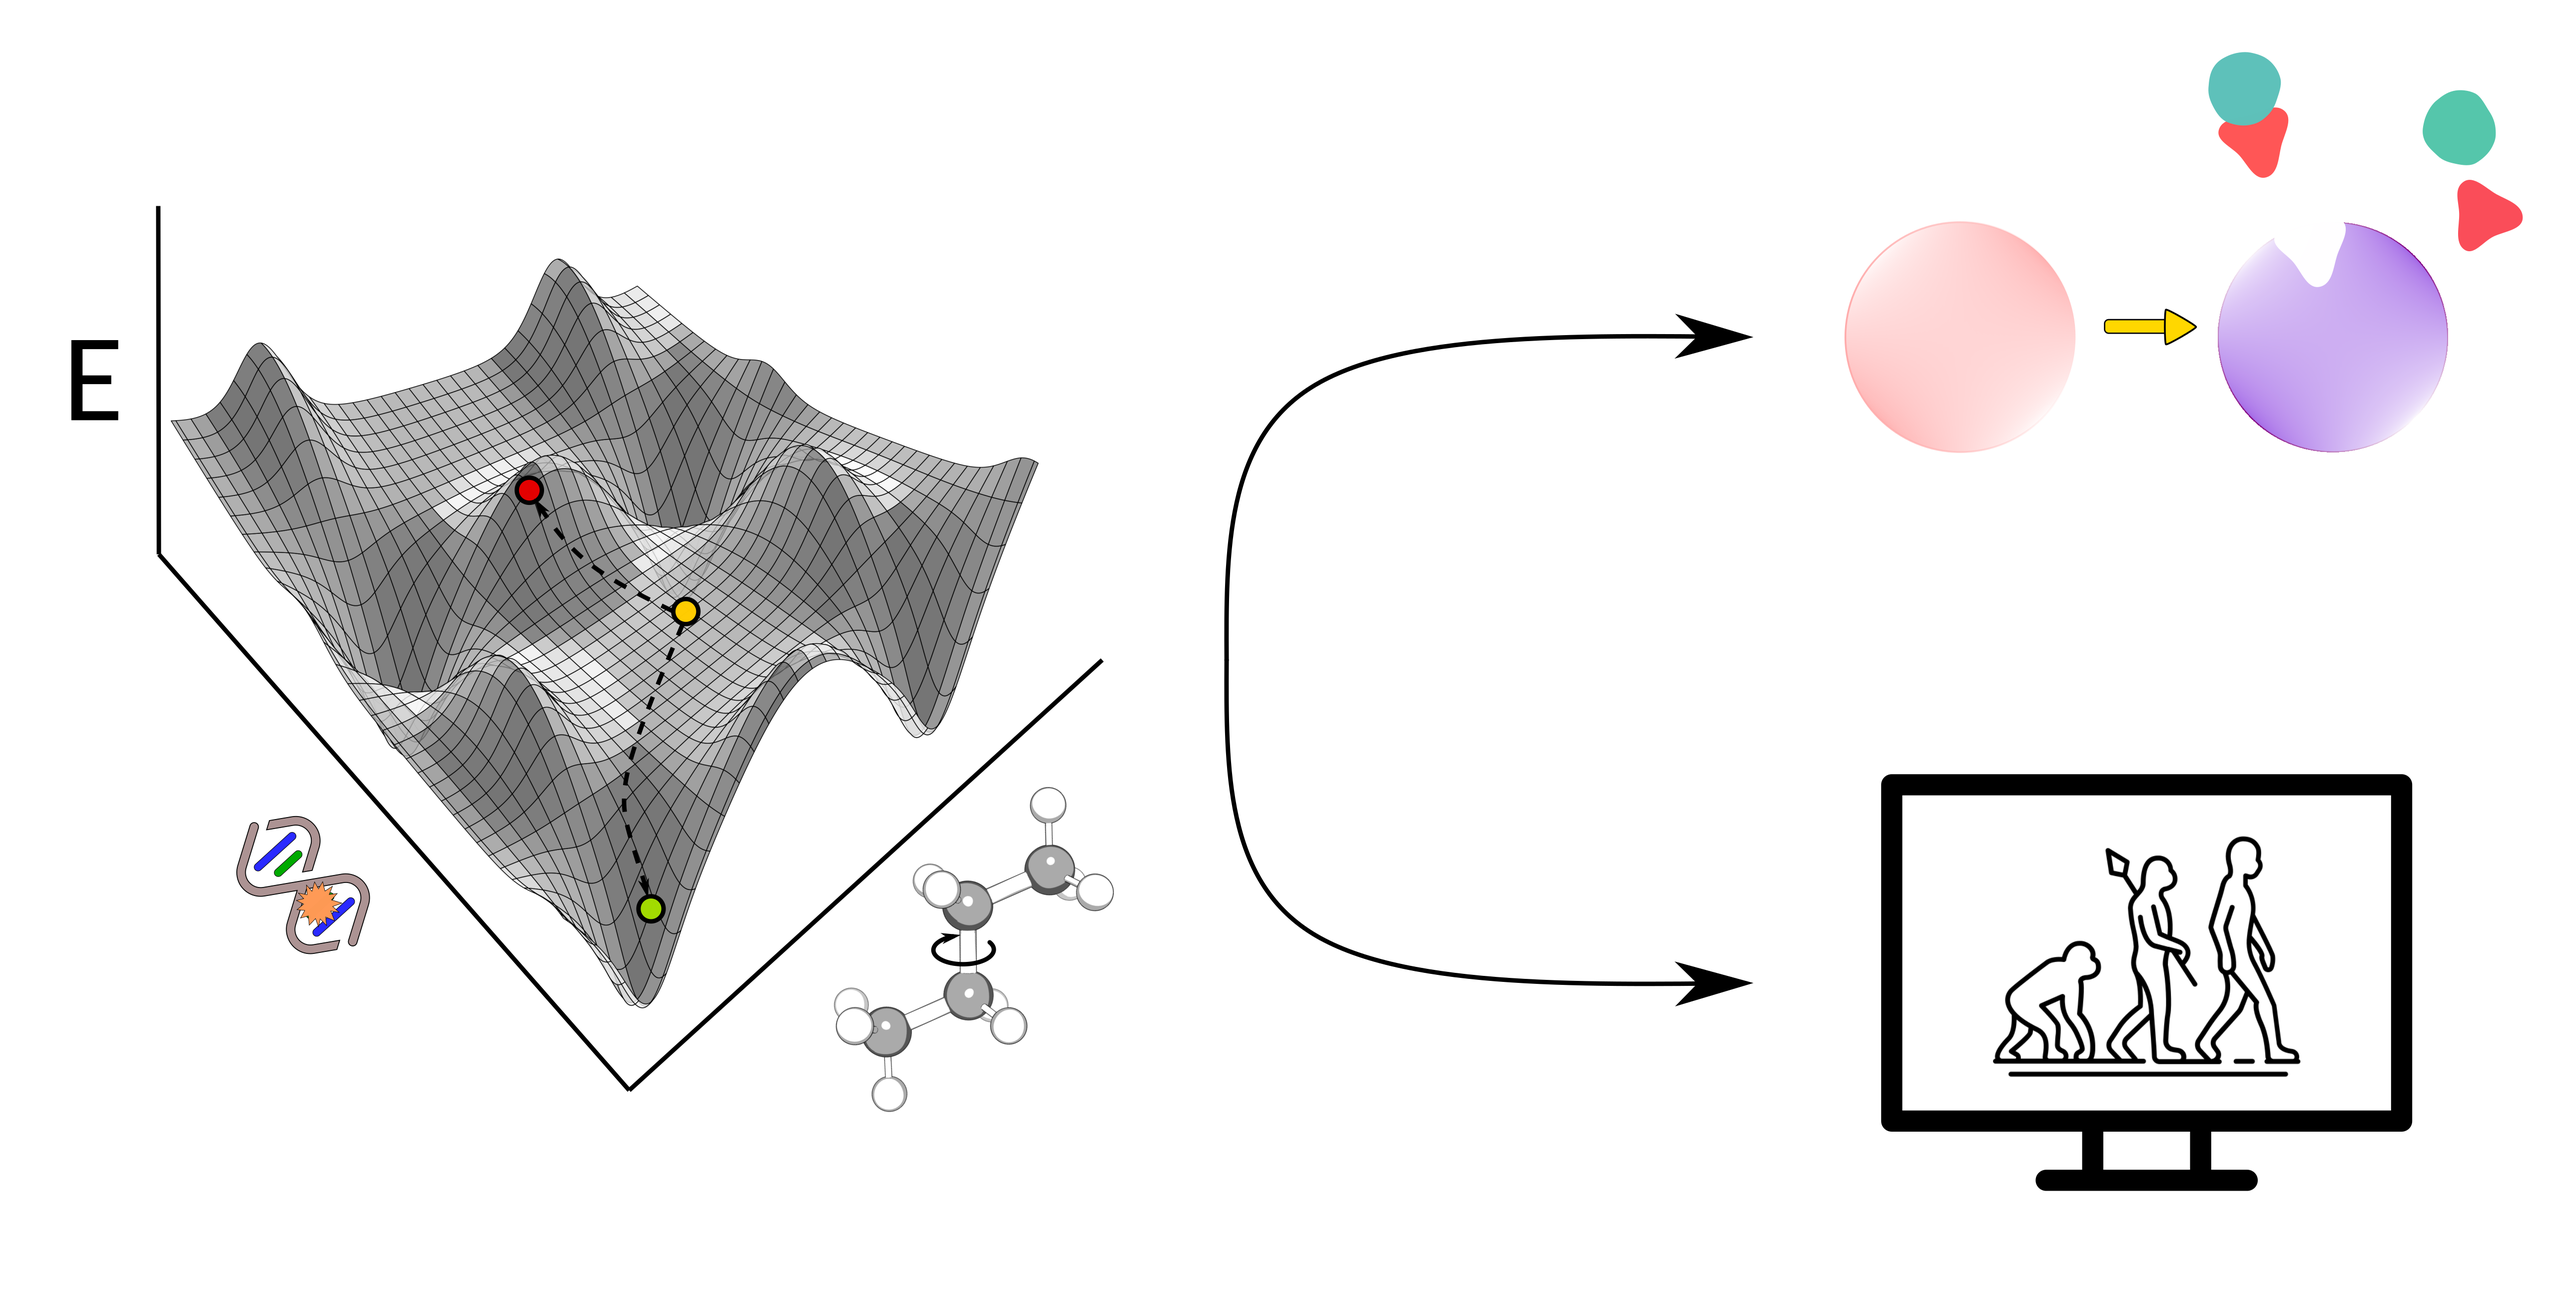
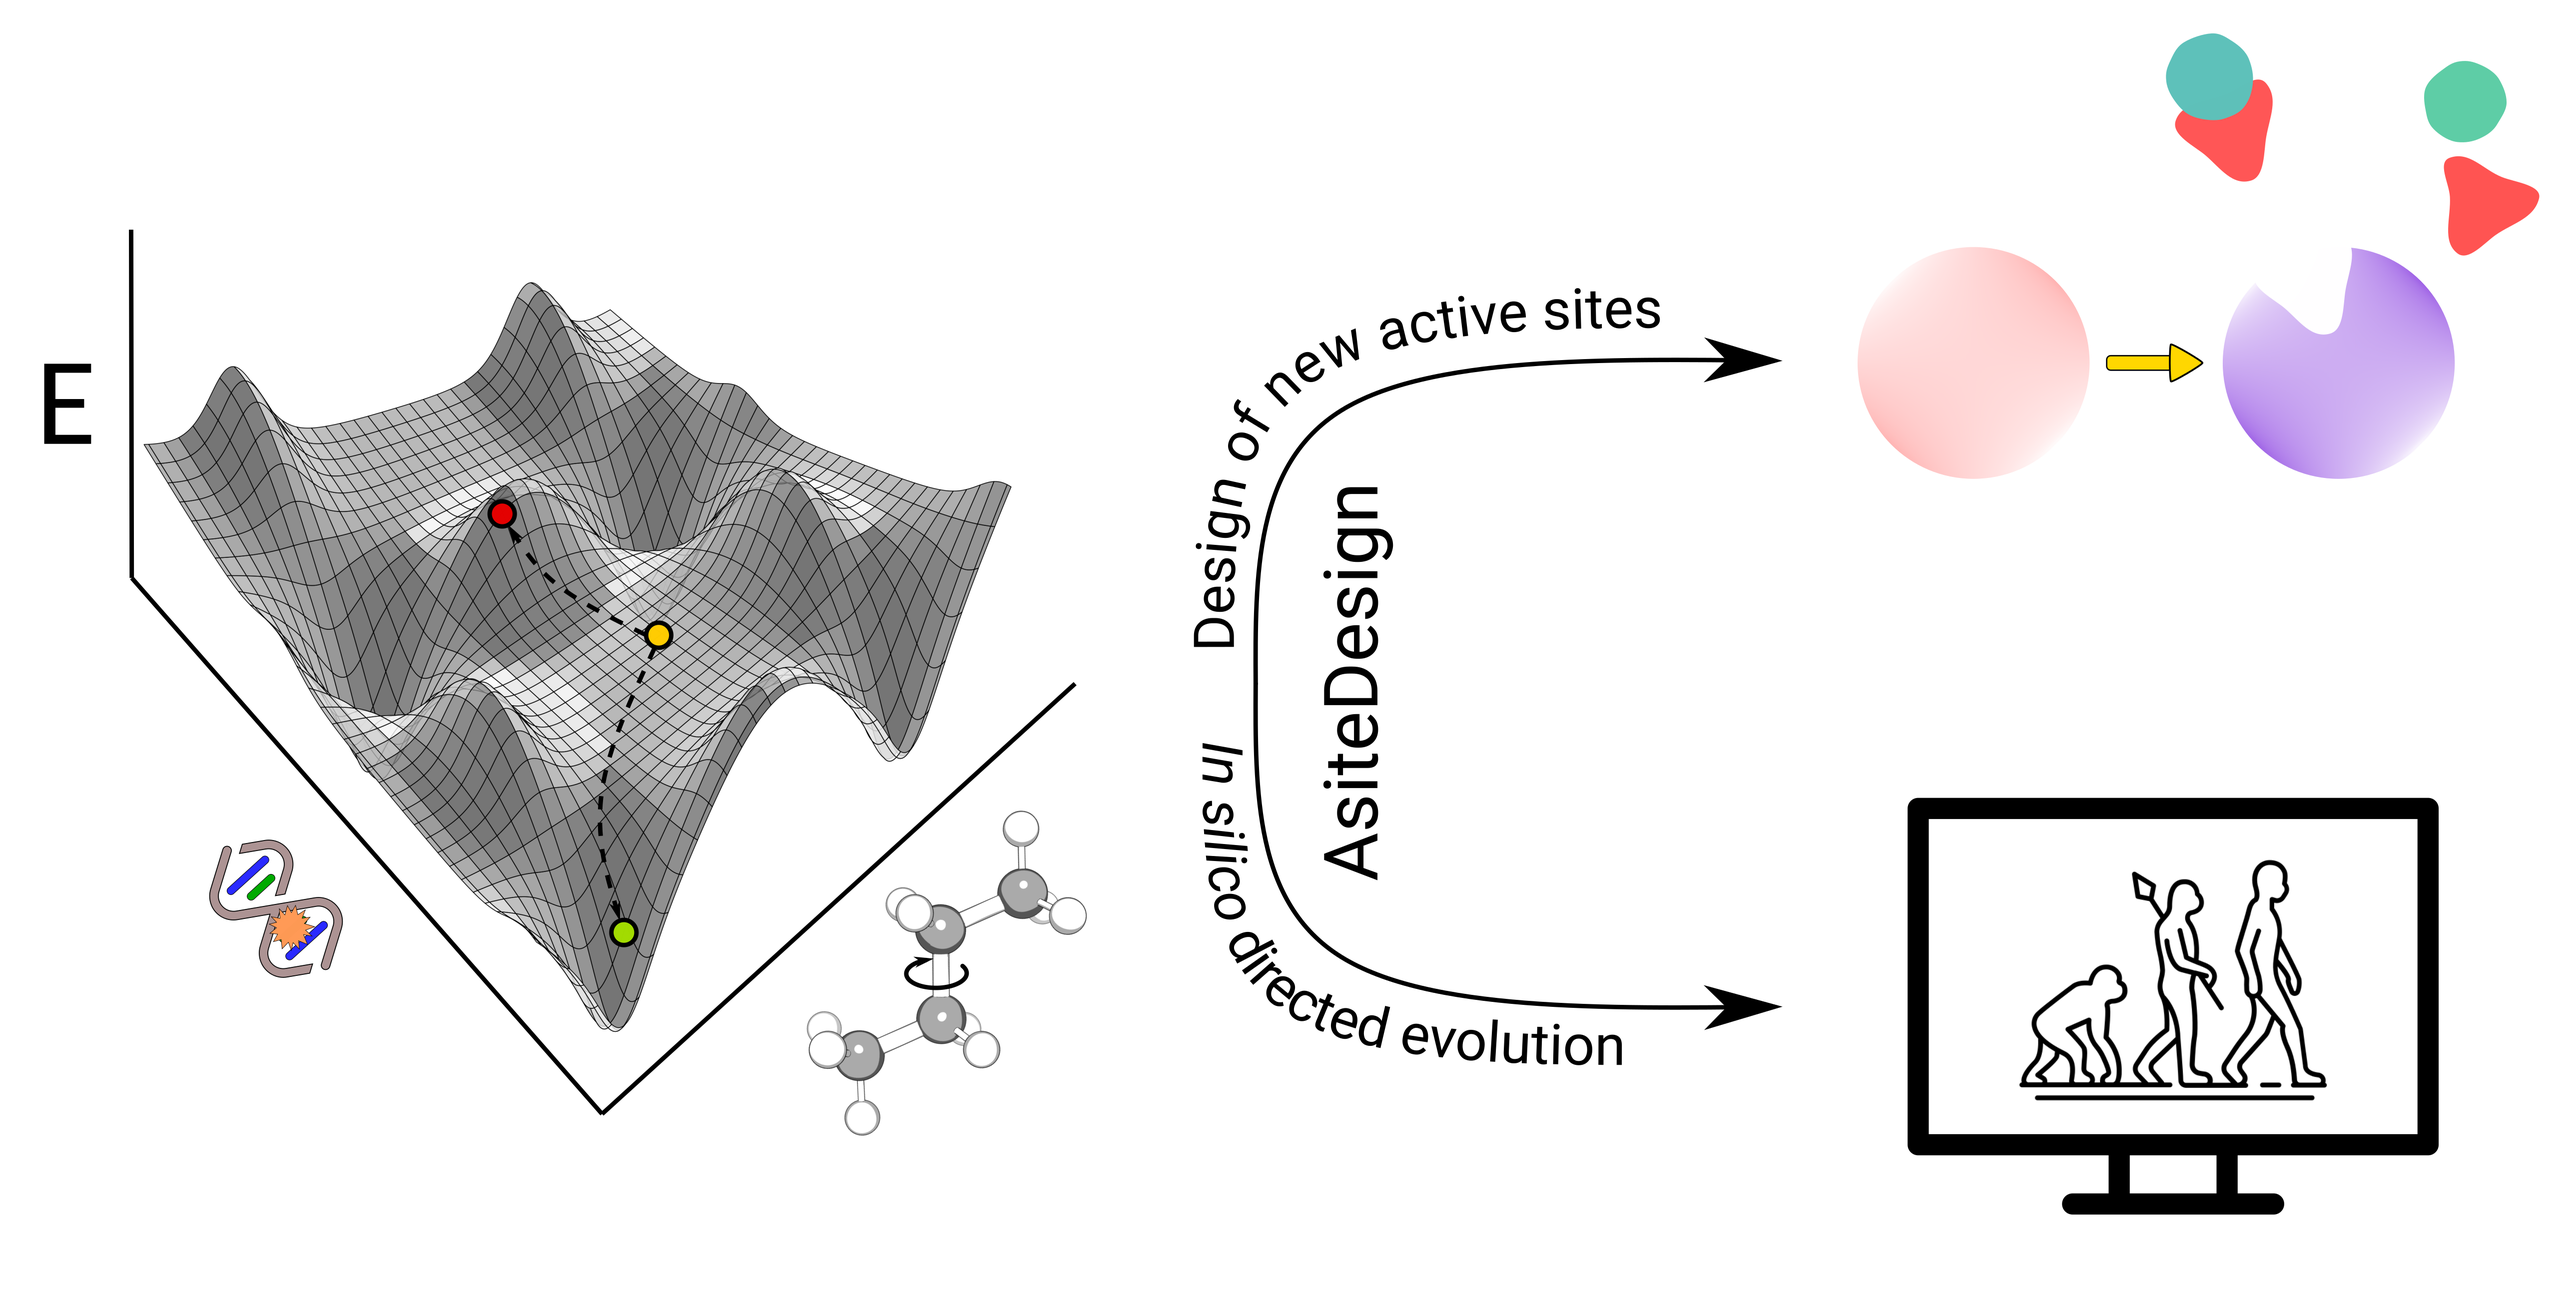
TOC figure has been updated, minor issues regarding the Templatized_control_file/DesignCatalyticSite.yaml file have been updated, the code has been fixed to be independent of the MDAnalysis module

diff --git a/ActiveSiteDesign.py b/ActiveSiteDesign.py
@@ -2,7 +2,6 @@
 import os, sys
 import re
 import traceback
-# import copy
 import time
 import datetime
 import shutil
@@ -36,15 +35,6 @@ from MoversRosetta import getScoreFunction
 from MoversRosetta import DesignPose, ActiveSiteMover, ActiveSiteSampler
 from Docking import LigandRigidBodyMover, LigandPackingMover, LigandNeighborsPackingMover, LigandMover
 
-# MD Analysis imports
-from MDAnalysis import Universe, Writer, AtomGroup
-from MDAnalysis.coordinates.PDB import PDBReader
-from MDAnalysis.lib.NeighborSearch import AtomNeighborSearch
-from MDAnalysis.analysis import align
-
-# from MoversRosetta import CatalyticMoverByResfile, CatalyticSampler
-# from MoversRosetta import NoneCatalyticMoverByResfile, NoneCatalyticSampler
-
 # PyRosetta import
 import pyrosetta as pr
 from pyrosetta.rosetta.std import ostringstream, istringstream
@@ -76,12 +66,6 @@ class ActiveSiteDesign(object):
         self.energyFullAtomWithConstraints.set_weight(score_type_from_name('fa_dun'), 0.1)
         #self.energyFullAtomWithConstraints.set_weight(score_type_from_name('rama_prepro'), 0.0)
         self.energyOnlyConstraints = getScoreFunction('onlyConstraints')
-
-        # Only used in explorers
-        # self.result = Result()
-
-        # Only used in master process
-        #self.bestResults = list()
 
     def run(self, confFile):
         if self.nProccess == 1:
@@ -281,56 +265,13 @@ class ActiveSiteDesign(object):
             endDate = datetime.datetime.now()
             self.printFinalSummary(results=bestResults, nElements=inputs.nPoses)
 
-            # Write the clusters
-            #self.printFinalClusters(bestResults, inputs)
-
-            # Write the final timming
+            # Write the final timing
             self.printFinalTimming(startDate=startDate, endDate=endDate, timeTotal=endTimeTotal-startTimeTotal)
 
             # Clean up stuff
             self.clean(inputs)
 
             return bestResults
-
-    def printFinalClusters(self, results, inputs):
-
-        # initiate clusters
-        clusters = [[(0, results[0])]]
-        for i, result in enumerate(results):
-            if i > inputs.nPoses:
-                break
-            found = False
-            # skip itself
-            if i == 0: continue
-            # cluster is a list itself
-            for cluster in clusters:
-                rmsd = self.getRMSD(cluster[0][1].dPose.pose, result.dPose.pose, inputs)
-                # if it is below threshold add it to the current
-                if rmsd <= inputs.ligandClusterCutoff:
-                    cluster.append((i, result))
-                    found = True
-                    break
-            # if nothing found make new cluster
-            if not found:
-                clusters.append([(i, result)])
-
-        print('\n')
-        print('------------------------------------------------------------------------------------------------------')
-        print('                                           FINAL RESULTS CLUSTERS                                     ')
-        print('------------------------------------------------------------------------------------------------------')
-        lineFormat = '#{:4d}       {:8.1f}         {:8.1f}              {:8.1f}                {:8.1f}                {:8.1f}     {:8.1f} {:8.1f}    {:8.1f}      {}'
-
-        for i, cluster in enumerate(clusters):
-            print('Cluster Number: ', i)
-            print('                                                                                                                     -----Acceptance Ratios-----           ')
-            print('  Rank     Total Energy    Full Atom Energy       Constraints Energy       Ligand(s) Energy         SASA Energy     Total  ActiveSite   Ligand(s)  Sequence')
-
-            for result in cluster:
-                rank, data = result
-                print(lineFormat.format(rank, data.scoreFullAtomWithConstraints, data.scoreFullAtom, data.scoreOnlyConstraints,
-                                        data.scoreLigand, data.scoreSASA, data.acceptanceRatio,
-                                        data.activeSiteAcceptedRatio, data.ligandAcceptedRatio, data.sequence))
-            print('\n')
 
     def getIterationResults(self, results, nElement, metric=None):
 
@@ -753,89 +694,6 @@ class ActiveSiteDesign(object):
             traceback.print_tb(e.__traceback__)
             print('\n')
             raise ValueError('Error reading input file, {}'.format(e))
-
-    """
-    def GetCentroidandRadius(self, pose, list_of_design_residues):
-
-        # Get the pdb file out of the pose
-        posePdb = ostringstream()
-        pose.dump_pdb(posePdb)
-        pdbFile = StringIO(posePdb.str())
-
-        # Get the PDB file
-        pdb = PDBFile.read(pdbFile)
-        pdbStruc = pdb.get_structure()[0]
-
-        # Get the coordinates of the DesignResidues and get the centroid. Convert the dictionary of DesignResidues to a list of the residues designed.
-        # The Radius list is to get the BoxRadius for the Docking Mover
-        list_of_design_residues = list(list_of_design_residues.keys())
-        coordinates, residue_coordinates, Radius = list(), dict(), list()
-        for atom in pdbStruc:
-            ResidueID = (str(atom.res_id) + "-" + atom.chain_id)
-            if ResidueID in list_of_design_residues:
-                if ResidueID not in residue_coordinates.keys():
-                    residue_coordinates[ResidueID] = []
-                residue_coordinates[ResidueID].append(atom.coord)
-                coordinates.append(atom.coord)
-
-        Centroid = list(mean(coordinates, axis=0))
-        for DesignedResidue in residue_coordinates:
-            Radius.append(norm(mean(residue_coordinates[DesignedResidue], axis=0) - Centroid))
-        Radius = max(Radius)
-
-        return Centroid, Radius
-    """
-
-    def getRMSD(self, pose1, pose2, inputs):
-
-        posePdb = ostringstream()
-        pose1.dump_pdb(posePdb)
-        struc1 = Universe(StringIO(posePdb.str()), format='PDB', in_memory=True, in_memory_step=1, verbose=False)
-
-        posePdb = ostringstream()
-        pose2.dump_pdb(posePdb)
-        struc2 = Universe(StringIO(posePdb.str()), format='PDB', in_memory=True, in_memory_step=1, verbose=False)
-
-        struc1.atoms.translate(-struc1.select_atoms('name CA').center_of_mass())
-        struc2.atoms.translate(-struc2.select_atoms('name CA').center_of_mass())
-
-        R, x = align.rotation_matrix(struc1.select_atoms('name CA').positions, struc2.select_atoms('name CA').positions)
-
-        struc1.atoms.rotate(R)
-
-        #struc1.atoms.write('struc1.pdb')
-        #struc2.atoms.write('struc2.pdb')
-
-        rmsd_total = 0
-
-        for ligand, ligandParm in zip(inputs.ligands, inputs.ligandsParm):
-
-            ID, chain = ligand.ID, ligand.chain
-            ligand_1 = struc1.select_atoms('resid {} and segid {}'.format(ID, chain)).positions
-            ligand_2 = struc2.select_atoms('resid {} and segid {}'.format(ID, chain)).positions
-
-            rmsd = ligand_1 - ligand_2
-            rmsd = square(rmsd)
-            rmsd = sum(rmsd)
-            rmsd = rmsd/ligand_1.shape[0]
-            rmsd = sqrt(rmsd)
-            rmsd_total += rmsd
-
-            """
-            poseIndex1 = pose1.pdb_info().pdb2pose(chain, ID)
-            poseIndex2 = pose2.pdb_info().pdb2pose(chain, ID)
-            natom = pose1.residue(poseIndex1).natoms()
-
-            rmsd = 0.0
-            count = 0
-            for i in range(1, natom + 1):
-                rmsd += (pose1.residue(poseIndex1).xyz(i).x - pose2.residue(poseIndex2).xyz(i).x) ** 2 + \
-                        (pose1.residue(poseIndex1).xyz(i).y - pose2.residue(poseIndex2).xyz(i).y) ** 2 + \
-                        (pose1.residue(poseIndex1).xyz(i).z - pose2.residue(poseIndex2).xyz(i).z) ** 2
-                count += 1
-            rmsd_total += sqrt(rmsd / count)
-            """
-        return rmsd_total
 
     def clean(self, inputs):
         if os.path.isdir(inputs.scratch):

diff --git a/Docking.py b/Docking.py
@@ -57,9 +57,6 @@ from scipy.spatial.distance import pdist, cdist, squareform
 from biotite.structure.io.pdb import PDBFile
 from biotite.structure import sasa, annotate_sse, apply_residue_wise
 
-# MD Analysis imports
-from MDAnalysis.lib.NeighborSearch import AtomNeighborSearch
-
 # BIO Python imports
 from Bio.PDB.Polypeptide import one_to_three
 

diff --git a/README.md b/README.md
@@ -12,7 +12,7 @@ A set of Python libraries are necessary to run the scripts of this Git repositor
 ## Requirements
 
 * Python Python 3.7 or higher must be installed.
-* PyRosetta (licensed software), Biotite, MDAnalysis, MPI4py, OpenMM.
+* PyRosetta (licensed software), Biotite, MPI4py, OpenMM.
 
 ## Usage
 
